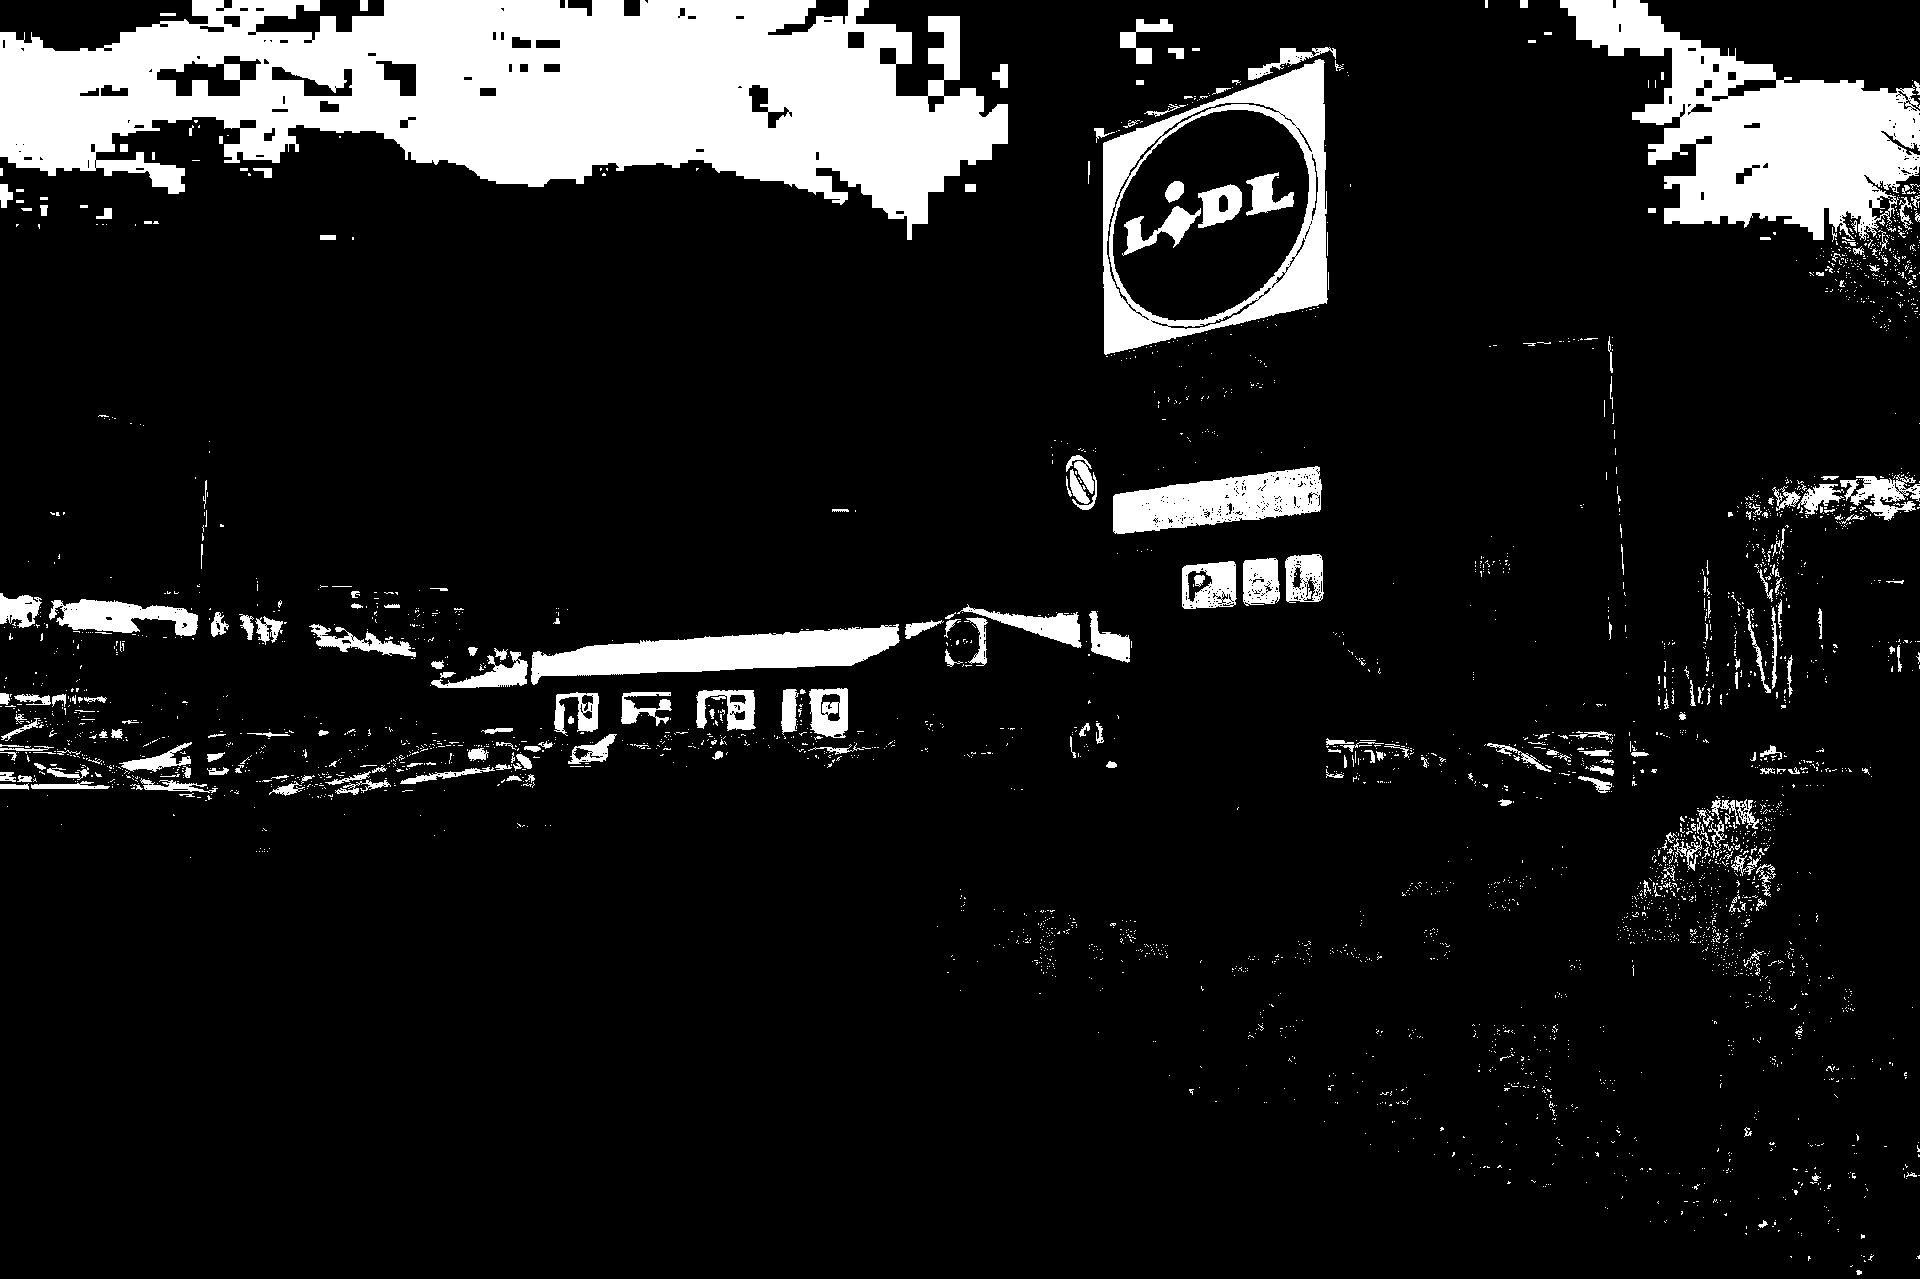
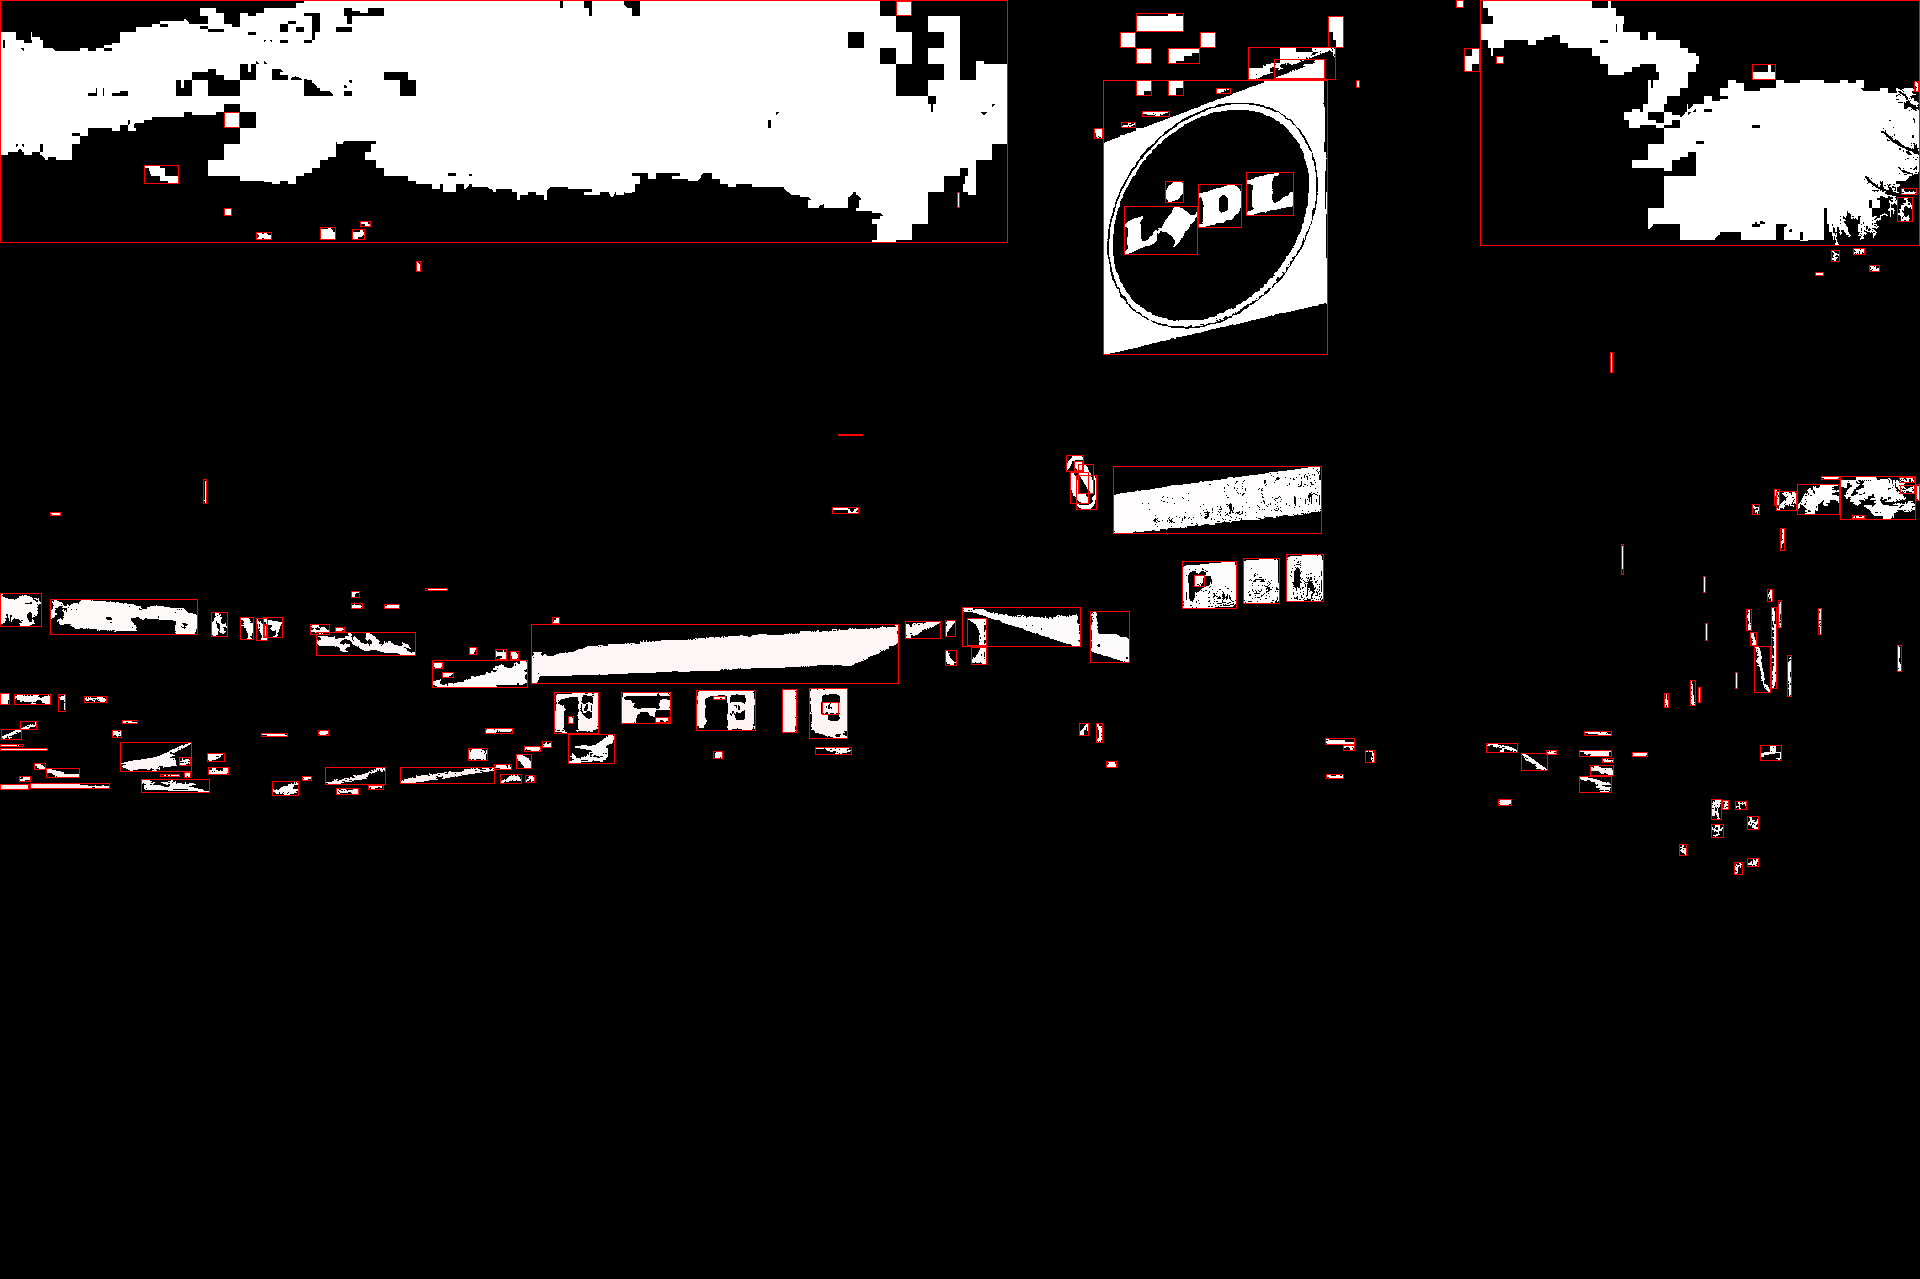
Segmentation done

diff --git a/Segmentation.h b/Segmentation.h
@@ -15,36 +15,50 @@
 #include "ColourHLS.h"
 #include "Segment.h"
 #include "ColourProvider.h"
+#include "BoundingBox.h"
 
 class Segmentation {
 public:
-    static std::vector<Segment> FindSegments(const cv::Mat &image) {
+
+    static std::vector<Segment> FindSegments(cv::Mat &image) {
         ColourProvider colourProvider;
         std::vector<Segment> segments;
 
         cv::Mat_<cv::Vec3b> imageVector = image;
         for (int y = 0; y < imageVector.rows; y++) {
             for (int x = 0; x < imageVector.cols; x++) {
-                if (ColourHLS::GetColour(imageVector(y, x)).IsWhite()) {
-                    segments.push_back(FloodFill(image, x, y, colourProvider.GetColour()));
+                if (!ColourHLS::GetColour(imageVector(y, x)).IsWhite())
+                    continue;
+
+                ColourHLS colour = colourProvider.GetColour();
+                Segment segment = FloodFill(image, x, y, colour);
+
+                if (segment.Area() < 32) {
+                    SetSegmentBlack(image, segment);
+                }
+                else {
+                    segments.push_back(segment);
+//                    BoundingBox::DrawBoundingBox(image, ColourHLS::GetRed(), segment.GetBoundingBox());
                 }
             }
         }
+        image = imageVector;
         return segments;
     }
 
 private:
-    static Segment FloodFill(const cv::Mat &image, int xStart, int yStart, ColourHLS colour) {
+    static Segment FloodFill(cv::Mat &image, int xStart, int yStart, ColourHLS colour) {
         std::vector<cv::Point2i> segmentPixels;
         std::deque<cv::Point2i> pixels;
         pixels.push_back(cv::Point2i(xStart, yStart));
 
         cv::Mat_<cv::Vec3b> imageVector = image;
-        ColourHLS::SetColour(imageVector(yStart, xStart), colour);
+
 
         while (!pixels.empty()) {
             auto current = pixels.front();
             pixels.pop_front();
+            ColourHLS::SetColour(imageVector(current.y, current.x), colour);
 
             segmentPixels.push_back(current);
 
@@ -59,7 +73,7 @@ private:
                 }
             }
         }
-
+        image = imageVector;
         auto segment = Segment(segmentPixels, colour);
         segment.Init();
         return segment;
@@ -85,6 +99,13 @@ private:
                 [&](cv::Point2i p) {
                     return p.x == point.x && p.y == point.y;
                 });
+    }
+
+    static void SetSegmentBlack(cv::Mat &image, Segment segment) {
+        cv::Mat_<cv::Vec3b> imageVector = image;
+        for (cv::Point2i pixel: segment.GetPixels())
+            ColourHLS::SetColour(imageVector(pixel.y, pixel.x), ColourHLS::GetBlack());
+        image = imageVector;
     }
 };
 

diff --git a/BoundingBox.h b/BoundingBox.h
@@ -5,9 +5,12 @@
 #ifndef POBR_IMAGE_SEGMENTATION_BOUNDINGBOX_H
 #define POBR_IMAGE_SEGMENTATION_BOUNDINGBOX_H
 
+#include <algorithm>
+#include <vector>
 #include "opencv2/core/core.hpp"
 #include "opencv2/highgui/highgui.hpp"
 #include "ColourHLS.h"
+#include "Segment.h"
 
 class BoundingBox {
 public:
@@ -35,29 +38,18 @@ public:
         return yMax - yMin;
     }
 
-    static BoundingBox GetBoundingBoxFromImage(cv::Mat &image, ColourHLS colour) {
-        BoundingBox boundingBox = BoundingBox(image.rows, 0, image.cols, 0);
-
+    static void DrawBoundingBox(cv::Mat &image, ColourHLS colour, BoundingBox boundingBox) {
         cv::Mat_<cv::Vec3b> imageVector = image;
-        for (int y = 0; y < image.rows; ++y)
-            for (int x = 0; x < image.cols; ++x) {
-                if (ColourHLS::GetColour(imageVector(y, x)) == colour) {
+        for (int x = boundingBox.xMin; x <= boundingBox.xMax; x++) {
+            ColourHLS::SetColour(imageVector(boundingBox.yMin, x), colour);
+            ColourHLS::SetColour(imageVector(boundingBox.yMax, x), colour);
+        }
 
-                    if (x > boundingBox.xMax)
-                        boundingBox.xMax = x;
-
-                    if (x < boundingBox.xMin)
-                        boundingBox.xMin = x;
-
-                    if (y > boundingBox.yMax)
-                        boundingBox.yMax = y;
-
-                    if (y < boundingBox.yMin)
-                        boundingBox.yMax = y;
-                }
-            }
+        for (int y = boundingBox.yMin; y <= boundingBox.yMax; y++) {
+            ColourHLS::SetColour(imageVector(y, boundingBox.xMin), colour);
+            ColourHLS::SetColour(imageVector(y, boundingBox.xMax), colour);
+        }
         image = imageVector;
-        return boundingBox;
     }
 };
 

diff --git a/Segment.h b/Segment.h
@@ -10,6 +10,7 @@
 #include "opencv2/core/core.hpp"
 #include "opencv2/highgui/highgui.hpp"
 #include "opencv2/imgproc/imgproc.hpp"
+#include "BoundingBox.h"
 
 class Segment {
 public:
@@ -49,6 +50,34 @@ public:
         M3 = (std::pow(M30 - 3 * M12, 2) + std::pow(3 * M21 - M03, 2)) / pow(m00, 5);
         M7 = (M02 * M20 - M11 * M11) / pow(m00, 4);
     }
+
+    double Area() {
+        return m00;
+    }
+
+    std::vector<cv::Point2i> GetPixels() const {
+        return pixels;
+    }
+
+    BoundingBox GetBoundingBox() const {
+        auto xComparator =
+                [](const cv::Point2i &l, const cv::Point2i &r) {
+                    return l.x < r.x;
+                };
+
+        auto yComparator =
+                [](const cv::Point2i &l, const cv::Point2i &r) {
+                    return l.y < r.y;
+                };
+
+        auto xMin = std::min_element(pixels.cbegin(), pixels.cend(), xComparator);
+        auto xMax = std::max_element(pixels.cbegin(), pixels.cend(), xComparator);
+        auto yMin = std::min_element(pixels.cbegin(),pixels.cend(),yComparator);
+        auto yMax = std::max_element(pixels.cbegin(), pixels.cend(),yComparator);
+
+        return BoundingBox((*xMin).x, (*xMax).x, (*yMin).y, (*yMax).y);
+    }
+
 
 private:
     const std::vector<cv::Point2i> pixels;

diff --git a/ColourProvider.h b/ColourProvider.h
@@ -10,20 +10,27 @@
 
 class ColourProvider {
 public:
-    ColourProvider() : colour(0, 0, 0) {}
+    ColourProvider() : colour(180, 255, 255) {}
 
     ColourHLS GetColour() {
-        if (colour.H < ColourHLS::MaxH() - 1)
-            colour.H++;
-        else if (colour.L < ColourHLS::MaxL())
-            colour.L++;
-        else if (colour.L < ColourHLS::MaxS())
-            colour.S++;
+        if (colour.S > 0) {
+            colour.S--;
+        }
+        else if (colour.L > 0) {
+            colour.L--;
+            colour.S = 255;
+        }
+        else if (colour.H > 1) {
+            colour.H--;
+            colour.L = 255;
+            colour.S = 255;
+        }
         else
             throw std::out_of_range("End of colour range");
 
         return colour;
     }
+
 
 private:
     ColourHLS colour;

diff --git a/main.cpp b/main.cpp
@@ -16,8 +16,8 @@ int main(int argc, char **argv) {
 //            "lidl_6_1.png"
 //    };
 
-    ImageProcessor imageProcessor("../Data_copy/", "../Output/");
-//    ImageProcessor imageProcessor("../Data/", "../Output/");
+//    ImageProcessor imageProcessor("../Data_copy/", "../Output/");
+    ImageProcessor imageProcessor("../Data/", "../Output/");
     for (auto image : inputImages) {
         imageProcessor.ProcessImage(image);
     }

diff --git a/ImageProcessor.h b/ImageProcessor.h
@@ -32,7 +32,7 @@ public:
 //        GammaCorrection(bgrImage, 1.1);
         cv::Mat image = Converter::ConvertBGRToHLS(bgrImage);
 
-//        Histogram::HistogramEqualization(image);
+        Histogram::HistogramEqualization(image);
         Thresholding(image);
         std::vector<Segment> segments = Segmentation::FindSegments(image);
 

diff --git a/ColourHLS.h b/ColourHLS.h
@@ -32,6 +32,8 @@ public:
 
     static ColourHLS GetWhite() { return ColourHLS(180, 255, 255); }
 
+    static ColourHLS GetRed() { return ColourHLS(0, 128, 255); }
+
     static ColourHLS GetColour(const cv::Vec3b &pixel) { return ColourHLS(pixel[0], pixel[1], pixel[2]); }
 
     static void SetColour(cv::Vec3b &pixel, ColourHLS colour) {

diff --git a/Histogram.cpp b/Histogram.cpp
@@ -17,6 +17,7 @@ void Histogram::HistogramEqualization(cv::Mat &image) {
             imageVector(y, x)[ChanelHLS::L] = Normalize(value);
         }
     }
+    image = imageVector;
 }
 
 std::vector<double> Histogram::GetHistogram(const cv::Mat &image) {

diff --git a/ImageProcessor.cpp b/ImageProcessor.cpp
@@ -21,6 +21,7 @@ void ImageProcessor::GammaCorrection(cv::Mat &image, float gamma) {
             }
         }
     }
+    image = imageVector;
 }
 
 void ImageProcessor::Thresholding(cv::Mat &image) {
